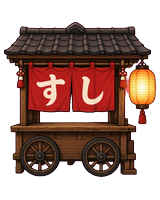
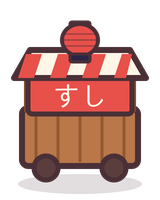
Add painted Nori-chan and fix wasabi and cart glyphs.
The homepage portrait is an original transparent PNG. Wasabi stays inside the frame, and the yatai noren reads すし from real glyphs. No ticker on the art.

diff --git a/public/assets/v2/README.md b/public/assets/v2/README.md
@@ -6,13 +6,15 @@ No ticker is drawn on any file. The ticker, when copy needs a name, is **$Nori-C
 
 `koinu.png` (512×512) is the reference already on this branch: the owner's round orange puppy. Do not replace it.
 
+Painted extras, including the homepage Nori-chan, are in [grok/](grok/README.md).
+
 | PNG | Size | Notes |
 | --- | --- | --- |
 | nori-chan.png | 1024×1280 | Pink kimono, matcha apron with のり, white hachimaki, tray of three nigiri. Transparent. |
 | koinu/idle.png, koinu/roll-1.png … roll-4.png | 256×256 | Same puppy as `koinu.png`. Roll-1 and roll-3 squash; roll-2 and roll-4 turn ±14°. |
 | sushi/maguro salmon tamago maki ikura golden .png | 128×128 | Tiny faces, ink outlines. Transparent. |
-| hazards/wasabi.png, crate.png | 128×128 | Crate is marked 魚. |
-| hazards/cart.png | 160×200 | Taller than the crate. Noren says すし. Lantern on the roof. |
+| hazards/wasabi.png, crate.png | 128×128 | Wasabi outline is fully inside the canvas. Crate is marked 魚. |
+| hazards/cart.png | 160×200 | Taller than the crate. Noren すし is painted from IPA Gothic glyphs. Lantern on the roof. |
 | powerups/bell.png, clock.png | 128×128 | Bell, and a clock marked +3. |
 | street/shop-left-day.png, shop-right-day.png | 64×340 | Day lane edges. Top and bottom bands match so the strip can repeat. |
 | street/shop-left-night.png, shop-right-night.png | 64×340 | 夜桜まつり edges, lantern lit. |

diff --git a/public/assets/v2/grok/README.md b/public/assets/v2/grok/README.md
@@ -1,0 +1,17 @@
+# public/assets/v2/grok
+
+Original art for issue #8. Every PNG below is transparent RGBA. No ticker, price, or logo is drawn on any file. When copy needs a name, the ticker is **$Nori-Chan**, and it is not in the art. `koinu.png` on this branch was not replaced.
+
+- nori-chan-painted.png — 1024×1280. Painted Nori-chan: pink kimono, matcha apron, white twisted hachimaki, wooden sushi tray. Homepage hero.
+- hazards/wasabi.png — 128×128. Wasabi blob. The whole outline sits inside the canvas, including the right edge.
+- hazards/cart.png — 160×200. Yatai, taller than the crate. Noren reads すし, painted from IPA Gothic glyphs, not a missing-font fallback.
+- sushi/maguro.png — 128×128. まぐろ nigiri with a tiny face.
+- sushi/salmon.png — 128×128. サーモン nigiri with a tiny face.
+- sushi/tamago.png — 128×128. たまご nigiri with a tiny face.
+- sushi/maki.png — 128×128. まきずし with a tiny face.
+- sushi/ikura.png — 128×128. いくら gunkan with a tiny face.
+- sushi/golden.png — 128×128. Golden nigiri with a tiny face.
+- powerups/bell.png — 128×128. すず, a bell.
+- powerups/clock.png — 128×128. Clock marked +3.
+
+The same wasabi and cart files also replace `public/assets/v2/hazards/wasabi.png` and `public/assets/v2/hazards/cart.png`.
